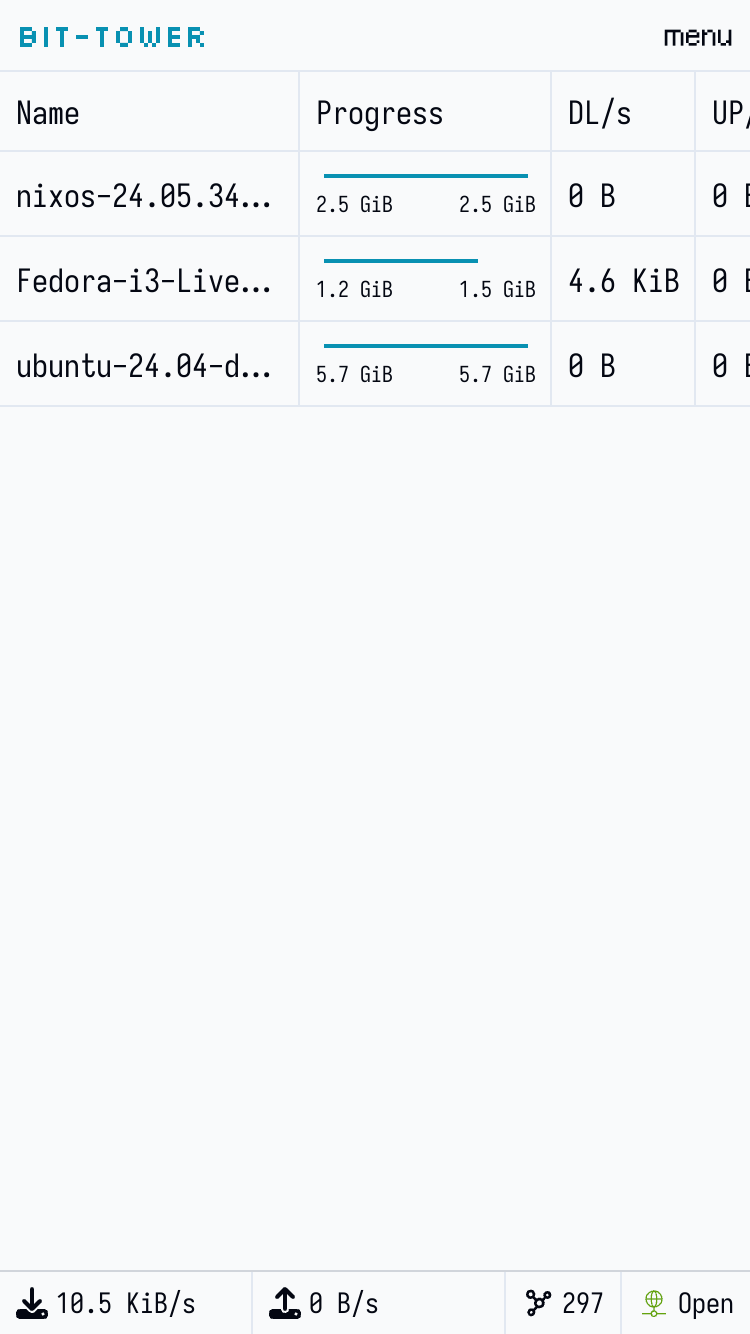
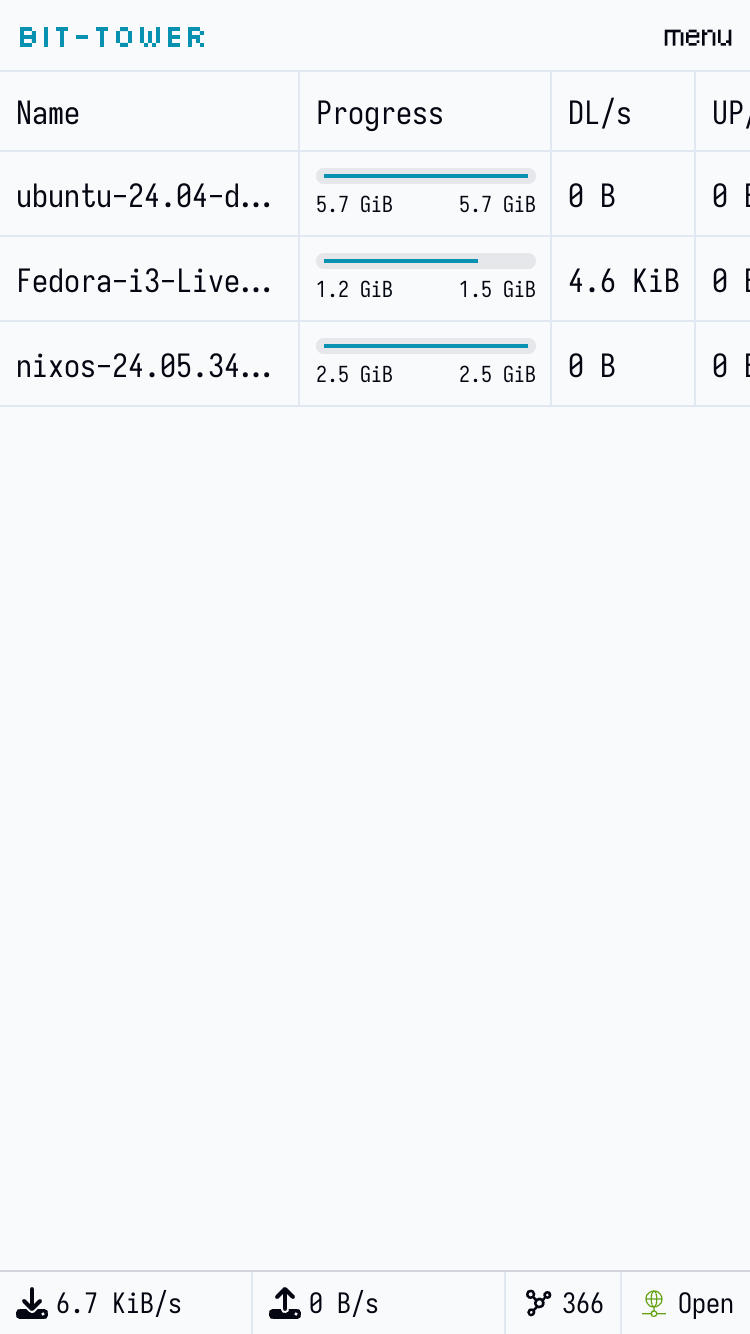
Light theme

diff --git a/app/src/components/torrents.rs b/app/src/components/torrents.rs
@@ -97,9 +97,9 @@ fn Progress(
 
     view! {
         <div class="flex flex-col w-[110px] gap-[2px]">
-            <div class="rounded dark:bg-gray-900 h-2">
+            <div class="rounded bg-gray-100 dark:bg-gray-900 h-2">
                 <div
-                    class="rounded dark:bg-gray-800 h-2"
+                    class="rounded bg-gray-200 dark:bg-gray-800 h-2"
                     style:width=move || { format!("{}px", inner_bar_w2()) }
                 >
                     <div
